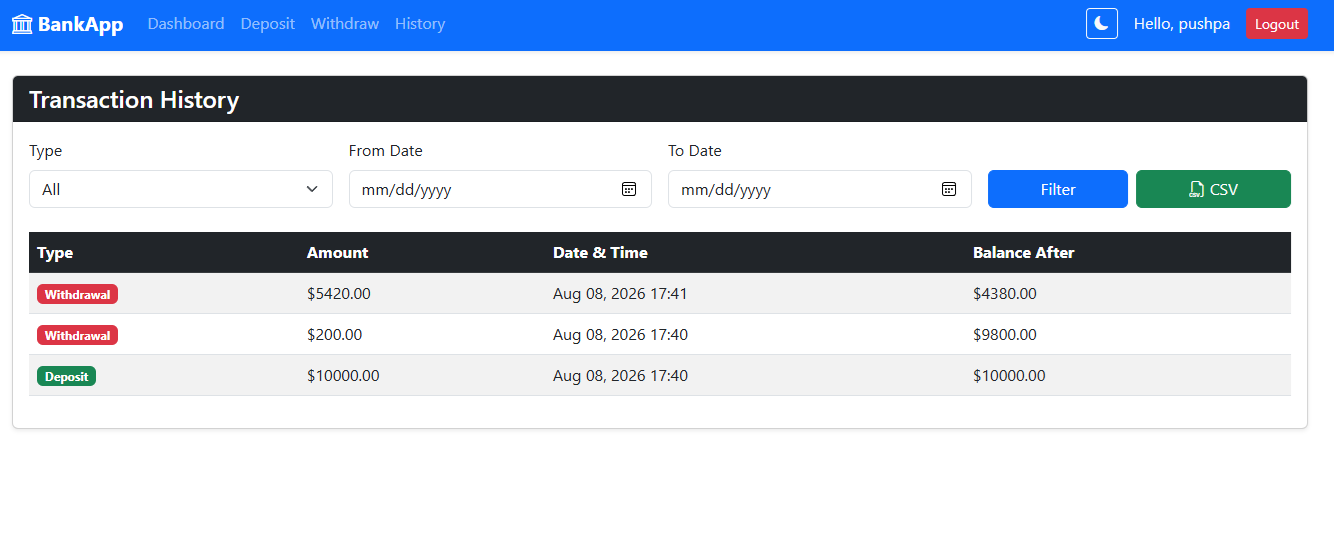
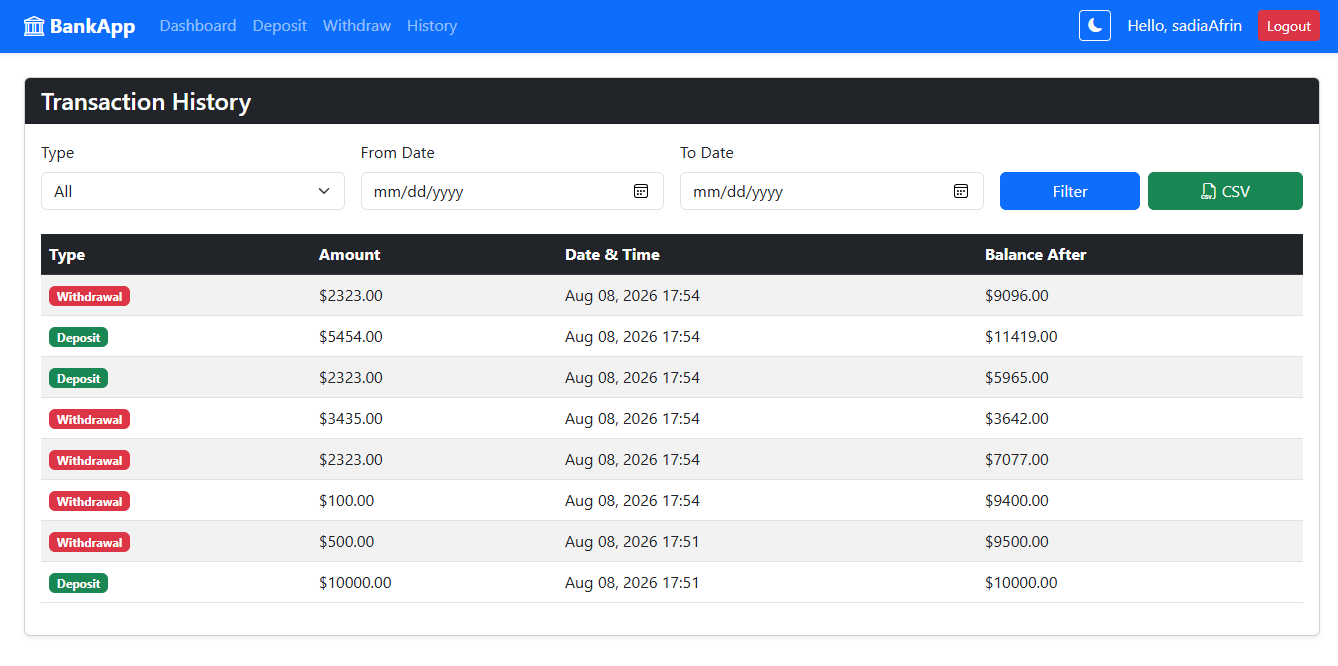
Added screenshots of darkmode and csv export to readme file

diff --git a/README.md b/README.md
@@ -33,3 +33,10 @@ A secure, fully-featured Bank Account Transaction Management System built with D
 
 ### 5. Transaction History
 ![History](screenshots/history.png)
+
+
+### 6. Dark Mode Dashboard
+![DarkMode](screenshots/darkmode.png)
+
+### 6. CSV Export
+![CSVExport](screenshots/CSVExport.png)
